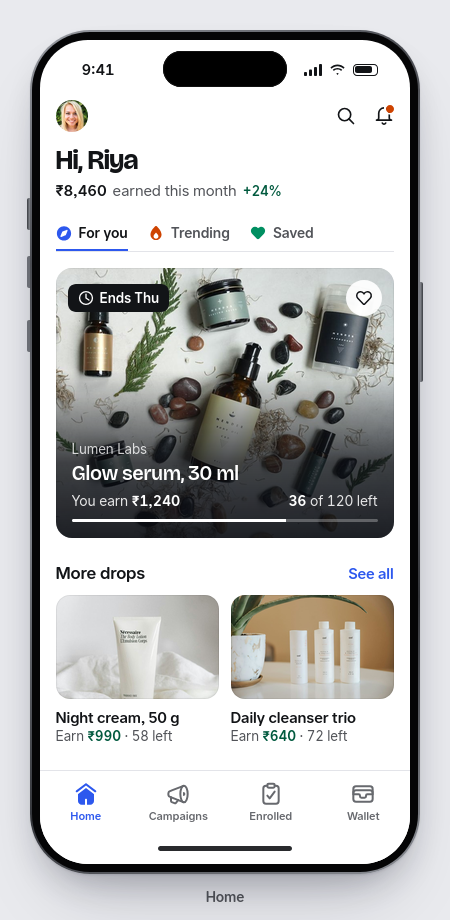
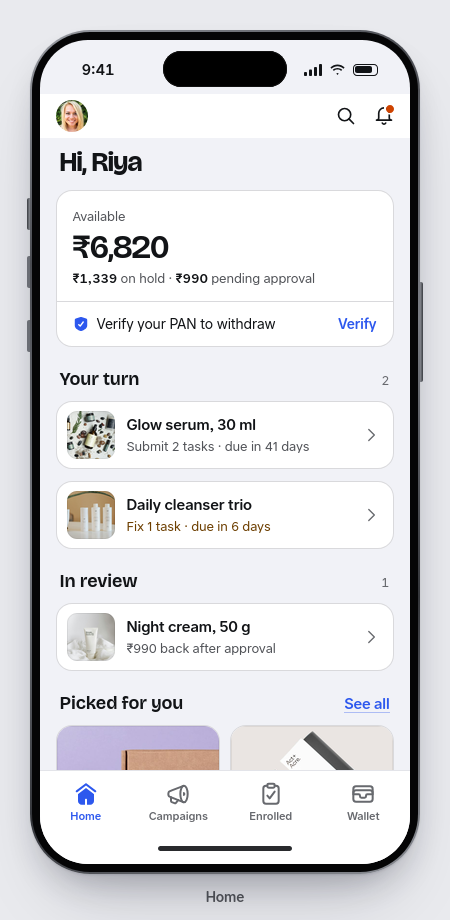
kit: creator Home by the spec (one wallet card with the PAN step, Your turn, In review, Picked for you); scaffold for 7 new screens

diff --git a/brand-identity/wordmark/BRAND/ui/screens/03-home.html b/brand-identity/wordmark/BRAND/ui/screens/03-home.html
@@ -5964,7 +5964,39 @@ html body .n-sw .n-swa .a { width: 76px !important; }
 
 /* radio cards: one signal (the filled radio); no blue fill */
 html body .row.sel, html body .sec .row.sel, html body .phone .row.sel { background: var(--hd-surface) !important; box-shadow: 0 0 0 1px var(--hd-edge-strong, rgba(16,20,38,.22)) !important; }
-</style></head><body><div style="padding:30px;display:inline-block"><figure class="pf"><div class="phone"><div class="scr" data-theme="light"><div class="sbar" style=""><span class="num">9:41</span><span class="r"><svg width="18" height="12" viewBox="0 0 18 12" fill="currentColor" aria-hidden="true"><rect x="0" y="8" width="3" height="4" rx=".8"/><rect x="5" y="5.5" width="3" height="6.5" rx=".8"/><rect x="10" y="3" width="3" height="9" rx=".8"/><rect x="15" y="0" width="3" height="12" rx=".8"/></svg><svg width="17" height="12" viewBox="0 0 17 12" fill="currentColor" aria-hidden="true"><path d="M8.5 2.3c2.3 0 4.4.9 6 2.4l1.1-1.2A10.2 10.2 0 0 0 8.5.6 10.2 10.2 0 0 0 1.4 3.5l1.1 1.2c1.6-1.5 3.7-2.4 6-2.4Z"/><path d="M8.5 5.6c1.4 0 2.6.5 3.6 1.4l1.1-1.2A7 7 0 0 0 8.5 3.9 7 7 0 0 0 3.8 5.8l1.1 1.2c1-.9 2.2-1.4 3.6-1.4Z"/><path d="M8.5 8.9c.5 0 .9.2 1.2.5L8.5 11 7.3 9.4c.3-.3.7-.5 1.2-.5Z"/></svg><span class="bat"></span></span></div><div class="xm1-bar xm1-s"><img class="av" src="assets/stock/people/women-68.jpg" alt="Riya Sharma"><svg class="ic" width="22" height="22" viewBox="0 0 18 18" stroke-width="1.5" aria-hidden="true"><path d="M15.75 15.75L11.6386 11.6386" stroke="currentColor" stroke-linecap="round" stroke-linejoin="round" fill="none"/><path d="M7.75 13.25C10.7875 13.25 13.25 10.7875 13.25 7.75C13.25 4.7125 10.7875 2.25 7.75 2.25C4.7125 2.25 2.25 4.7125 2.25 7.75C2.25 10.7875 4.7125 13.25 7.75 13.25Z" stroke="currentColor" stroke-linecap="round" stroke-linejoin="round" fill="none"/></svg><span class="bell"><svg class="ic" width="22" height="22" viewBox="0 0 18 18" stroke-width="1.5" aria-hidden="true"><path d="M15.75 12.75C14.645 12.75 13.75 11.855 13.75 10.75V6.5C13.75 3.877 11.623 1.75 9 1.75C6.377 1.75 4.25 3.877 4.25 6.5V10.75C4.25 11.855 3.355 12.75 2.25 12.75H15.75Z" stroke="currentColor" stroke-linecap="round" stroke-linejoin="round" fill="none"/><path d="M10.5 15.3843C10.2005 15.9018 9.6409 16.25 9 16.25C8.3591 16.25 7.7995 15.9018 7.5 15.3843" stroke="currentColor" stroke-linecap="round" stroke-linejoin="round" fill="none"/></svg><i></i></span></div><div class="xm1-s xm1-home"><div class="xm1-head"><h1 class="xm1-h">Hi, Riya</h1><p class="xm1-earn"><b>₹8,460</b> earned this month <em>+24%</em></p></div><div class="tabs"><span class="on"><svg class="ic icf" width="16" height="16" viewBox="0 0 18 18" fill="currentColor" style="color:var(--hd-accent)" aria-hidden="true"><path fill-rule="evenodd" clip-rule="evenodd" d="M1 9.5C1 5.089 4.589 1.5 9 1.5C13.411 1.5 17 5.089 17 9.5C17 13.911 13.411 17.5 9 17.5C4.589 17.5 1 13.911 1 9.5ZM12.9828 6.49142C13.0936 6.21309 13.0282 5.89549 12.8163 5.68365C12.6045 5.47181 12.2869 5.40636 12.0086 5.51718L7.30955 7.38818C7.11809 7.46442 6.96643 7.61608 6.8902 7.80754L5.0192 12.5065C4.90837 12.7849 4.97382 13.1025 5.18566 13.3143C5.39751 13.5262 5.7151 13.5916 5.99344 13.4808L10.6924 11.6098C10.8839 11.5336 11.0356 11.3819 11.1118 11.1904L12.9828 6.49142Z" fill="currentColor"/></svg>For you</span><span><svg class="ic icf" width="16" height="16" viewBox="0 0 18 18" fill="currentColor" style="color:var(--hd-tone-vermilion)" aria-hidden="true"><path d="M9.493,1.185c-.282-.246-.703-.246-.985,0-.235,.205-5.757,5.067-5.757,9.548,0,3.456,2.804,6.267,6.25,6.267s6.25-2.812,6.25-6.267C15.25,6.252,9.728,1.389,9.493,1.185Zm-.493,14.315c-1.523,0-2.762-1.242-2.762-2.769,0-1.822,2.037-3.65,2.27-3.852,.282-.246,.703-.246,.985,0,.232,.202,2.27,2.03,2.27,3.852,0,1.526-1.239,2.769-2.762,2.769Z" fill="currentColor"/></svg>Trending</span><span><svg class="ic icf" width="16" height="16" viewBox="0 0 18 18" fill="currentColor" style="color:var(--hd-tone-mint)" aria-hidden="true"><path d="M16.842,5.365c-.217-.826-.693-1.595-1.342-2.164-1.11-.974-2.56-1.368-3.969-1.084-1.003,.203-1.883,.718-2.534,1.464-.039-.044-.079-.088-.12-.132-.84-.884-1.974-1.389-3.193-1.42-1.213-.026-2.378,.414-3.262,1.253-1.825,1.734-1.9,4.63-.163,6.459l5.479,5.694c.332,.346,.78,.537,1.26,.537h0c.48,0,.928-.19,1.261-.537l5.48-5.694s.003-.002,.004-.003c1.102-1.161,1.512-2.795,1.098-4.374Z" fill="currentColor"/></svg>Saved</span></div><div class="xm1-card"><img src="assets/stock/products/p6.jpg" alt=""><div class="top"><span class="chip"><svg class="ic" width="14" height="14" viewBox="0 0 18 18" stroke-width="1.5" aria-hidden="true"><circle cx="9" cy="9" r="7.25" fill="none" stroke="currentColor" stroke-linecap="round" stroke-linejoin="round"/><polyline points="9 4.75 9 9 12.25 11.25" fill="none" stroke="currentColor" stroke-linecap="round" stroke-linejoin="round"/></svg>Ends Thu</span><span class="x-disc" aria-label="Save"><svg class="ic" width="18" height="18" viewBox="0 0 18 18" stroke-width="1.5" aria-hidden="true"><path d="M15.2,9.222l-5.48,5.694c-.393,.409-1.048,.409-1.441,0L2.799,9.222c-1.452-1.528-1.389-3.944,.139-5.395,1.528-1.452,3.944-1.389,5.395,.139,.27,.284,.495,.609,.666,.962,1.074-2.212,4.002-2.92,6.007-1.162,.535,.469,.929,1.101,1.11,1.79,.363,1.383-.034,2.738-.916,3.666Z" fill="none" stroke="currentColor" stroke-linecap="round" stroke-linejoin="round"/></svg></span></div><div class="bt"><small>Lumen Labs</small><b>Glow serum, 30 ml</b><div class="mt"><span>You earn <em>₹1,240</em></span><span><em>36</em> of 120 left</span></div><i class="sl"><u style="width:70%"></u></i></div></div><div class="xm1-sech"><b>More drops</b><button class="btn link">See all</button></div><div class="xm1-two"><div class="xm1-mini"><img src="assets/stock/products/p1.jpg" alt=""><b>Night cream, 50 g</b><small>Earn <em>₹990</em> · 58 left</small></div><div class="xm1-mini"><img src="assets/stock/products/p7.jpg" alt=""><b>Daily cleanser trio</b><small>Earn <em>₹640</em> · 72 left</small></div></div></div><div class="tabbar"><div class="on"><svg class="ic icf" width="24" height="24" viewBox="0 0 18 18" fill="currentColor" aria-hidden="true"><path d="M15.999,7.75c-.156,0-.314-.049-.449-.15L9,2.688,2.45,7.6c-.331,.25-.803,.181-1.05-.15-.249-.332-.182-.802,.149-1.05L8.55,1.15c.268-.2,.633-.2,.9,0l7,5.25c.331,.249,.398,.719,.149,1.05-.146,.196-.372,.3-.601,.3Z" fill="currentColor"/><path d="M14.649,8.8l-5.649-4.238L3.351,8.8c-.111,.083-.229,.152-.351,.213v5.237c0,1.517,1.233,2.75,2.75,2.75h2.5v-3.75c0-.414,.336-.75,.75-.75s.75,.336,.75,.75v3.75h2.5c1.517,0,2.75-1.233,2.75-2.75v-5.237c-.122-.061-.24-.13-.351-.213Z" fill="currentColor"/></svg><span>Home</span></div><div class=""><svg class="ic" width="24" height="24" viewBox="0 0 18 18" stroke-width="1.5" aria-hidden="true"><path d="M3.75,11.457v2.704c0,.41,.25,.778,.631,.929l1.945,.773c.4,.159,.856,.044,1.134-.284l1.666-1.979" fill="none" stroke="currentColor" stroke-linecap="round" stroke-linejoin="round"/><ellipse cx="13.5" cy="9" rx="2.75" ry="6.25" fill="none" stroke="currentColor" stroke-linecap="round" stroke-linejoin="round"/><path d="M12.954,15.125L2.61,11.002c-.256-.099-.457-.296-.564-.549-.148-.35-.296-.847-.296-1.453,0-.271,.03-.817,.289-1.436,.108-.257,.313-.466,.573-.566,3.638-1.409,6.704-2.715,10.342-4.124" fill="none" stroke="currentColor" stroke-linecap="round" stroke-linejoin="round"/><path d="M14.5,9c0-.828-.672-1.5-1.5-1.5-.053,0-.103,.01-.155,.016-.058,.452-.095,.945-.095,1.484s.037,1.032,.095,1.484c.052,.005,.102,.016,.155,.016,.828,0,1.5-.672,1.5-1.5Z" fill="currentColor"/></svg><span>Campaigns</span></div><div class=""><svg class="ic" width="24" height="24" viewBox="0 0 18 18" stroke-width="1.5" aria-hidden="true"><path d="M6.25,2.75h-1c-1.105,0-2,.895-2,2V14.25c0,1.105,.895,2,2,2h7.5c1.105,0,2-.895,2-2V4.75c0-1.105-.895-2-2-2h-1" fill="none" stroke="currentColor" stroke-linecap="round" stroke-linejoin="round"/><rect x="6.25" y="1.25" width="5.5" height="3" rx="1" ry="1" fill="none" stroke="currentColor" stroke-linecap="round" stroke-linejoin="round"/><polyline points="6.25 10.25 8 12.25 11.75 7.25" fill="none" stroke="currentColor" stroke-linecap="round" stroke-linejoin="round"/></svg><span>Enrolled</span></div><div class=""><svg class="ic" width="24" height="24" viewBox="0 0 18 18" stroke-width="1.5" aria-hidden="true"><path d="M1.75,8.25c0-1.105,.895-2,2-2H14.25c1.105,0,2,.895,2,2" fill="none" stroke="currentColor" stroke-linecap="round" stroke-linejoin="round"/><path d="M16.25,9.25h-4c-.552,0-1,.448-1,1v.5c0,.552-.448,1-1,1h-2.5c-.552,0-1-.448-1-1v-.5c0-.552-.448-1-1-1H1.75" fill="none" stroke="currentColor" stroke-linecap="round" stroke-linejoin="round"/><rect x="1.75" y="3.25" width="14.5" height="11.5" rx="2" ry="2" fill="none" stroke="currentColor" stroke-linecap="round" stroke-linejoin="round"/></svg><span>Wallet</span></div></div><div class="home-ind"><i></i></div></div></div><figcaption>Home</figcaption></figure></div><script>// Squircles + tactile surfaces for the static kit (Zen/Firefox has no `corner-shape`).
+
+.phone .hm { flex: 1; min-height: 0; overflow: hidden; display: flex; flex-direction: column; gap: 12px; padding: 4px 16px 16px; background: var(--hd-canvas); }
+.phone .scr:has(.hm) { background: var(--hd-canvas); }
+.phone .hm-h { font-family: var(--font-brand); font-size: 28px; line-height: 32px; font-weight: 700; letter-spacing: -0.025em; font-variation-settings: 'opsz' 96; margin: 4px 4px 0; }
+.phone .hm-wal, .phone .hm-row, .phone .hm-pick { background: var(--hd-surface); border: 1px solid var(--hd-edge); border-radius: 16px; }
+.phone .hm-wal { padding: 16px 16px 0; display: flex; flex-direction: column; }
+.phone .hm-wal small { font-size: 13px; line-height: 18px; color: var(--hd-fg-muted); }
+.phone .hm-wal > b { font-family: var(--font-brand); font-size: 34px; line-height: 40px; font-weight: 700; letter-spacing: -0.025em; font-variation-settings: 'opsz' 96; color: var(--hd-fg); margin-top: 2px; }
+.phone .hm-wal p { margin: 2px 0 14px; font-size: 13px; line-height: 18px; color: var(--hd-fg-muted); }
+.phone .hm-wal p .num { color: var(--hd-fg); font-weight: 600; }
+.phone .hm-wal .ft { display: flex; align-items: center; gap: 8px; margin: 0 -16px; padding: 12px 16px; border-top: 1px solid var(--hd-edge); color: inherit; text-decoration: none; font-size: 14px; line-height: 20px; }
+.phone .hm-wal .ft span { flex: 1; color: var(--hd-fg); }
+.phone .hm-wal .ft em { font-style: normal; font-weight: 600; color: var(--hd-link); }
+.phone .hm-sh { display: flex; align-items: baseline; justify-content: space-between; margin: 8px 4px -2px; }
+.phone .hm-sh h2 { font-family: var(--font-brand); font-size: 18px; line-height: 24px; font-weight: 650; margin: 0; }
+.phone .hm-sh > span { font-size: 13px; color: var(--hd-fg-subtle); }
+.phone .hm-row { display: flex; align-items: center; gap: 12px; min-height: 68px; padding: 10px 14px 10px 10px; }
+.phone .hm-row img { width: 48px; height: 48px; border-radius: 10px; object-fit: cover; flex: none; }
+.phone .hm-row .tx { display: flex; flex-direction: column; gap: 2px; min-width: 0; flex: 1; }
+.phone .hm-row b { font-size: 15px; line-height: 20px; font-weight: 600; color: var(--hd-fg); }
+.phone .hm-row small { font-size: 13px; line-height: 18px; color: var(--hd-fg-muted); white-space: nowrap; overflow: hidden; text-overflow: ellipsis; }
+.phone .hm-row small.warn { color: var(--hd-warning-strong); }
+.phone .hm-row > .ic { color: var(--hd-fg-subtle); flex: none; }
+.phone .hm-picks { display: grid; grid-template-columns: 1fr 1fr; gap: 10px; }
+.phone .hm-pick { overflow: hidden; display: flex; flex-direction: column; }
+.phone .hm-pick img { width: 100%; aspect-ratio: 4 / 3; object-fit: cover; display: block; }
+.phone .hm-pick .bd { padding: 10px 12px 12px; display: flex; flex-direction: column; gap: 2px; }
+.phone .hm-pick .sr { display: flex; align-items: center; gap: 5px; font-size: 12.5px; color: var(--hd-fg-muted); }
+.phone .hm-pick b { font-size: 15px; line-height: 20px; font-weight: 600; }
+.phone .hm-pick p { margin: 0; display: flex; gap: 6px; align-items: baseline; font-size: 14px; font-weight: 600; color: var(--hd-fg); }
+.phone .hm-pick p em { font-style: normal; font-size: 12.5px; font-weight: 600; color: var(--hd-success-strong); }
+.phone .hm-pick small { font-size: 12.5px; color: var(--hd-fg-subtle); }
+</style></head><body><div style="padding:30px;display:inline-block"><figure class="pf"><div class="phone"><div class="scr" data-theme="light"><div class="sbar" style=""><span class="num">9:41</span><span class="r"><svg width="18" height="12" viewBox="0 0 18 12" fill="currentColor" aria-hidden="true"><rect x="0" y="8" width="3" height="4" rx=".8"/><rect x="5" y="5.5" width="3" height="6.5" rx=".8"/><rect x="10" y="3" width="3" height="9" rx=".8"/><rect x="15" y="0" width="3" height="12" rx=".8"/></svg><svg width="17" height="12" viewBox="0 0 17 12" fill="currentColor" aria-hidden="true"><path d="M8.5 2.3c2.3 0 4.4.9 6 2.4l1.1-1.2A10.2 10.2 0 0 0 8.5.6 10.2 10.2 0 0 0 1.4 3.5l1.1 1.2c1.6-1.5 3.7-2.4 6-2.4Z"/><path d="M8.5 5.6c1.4 0 2.6.5 3.6 1.4l1.1-1.2A7 7 0 0 0 8.5 3.9 7 7 0 0 0 3.8 5.8l1.1 1.2c1-.9 2.2-1.4 3.6-1.4Z"/><path d="M8.5 8.9c.5 0 .9.2 1.2.5L8.5 11 7.3 9.4c.3-.3.7-.5 1.2-.5Z"/></svg><span class="bat"></span></span></div><div class="xm1-bar xm1-s"><img class="av" src="assets/stock/people/women-68.jpg" alt="Riya Sharma"><svg class="ic" width="22" height="22" viewBox="0 0 18 18" stroke-width="1.5" aria-hidden="true"><path d="M15.75 15.75L11.6386 11.6386" stroke="currentColor" stroke-linecap="round" stroke-linejoin="round" fill="none"/><path d="M7.75 13.25C10.7875 13.25 13.25 10.7875 13.25 7.75C13.25 4.7125 10.7875 2.25 7.75 2.25C4.7125 2.25 2.25 4.7125 2.25 7.75C2.25 10.7875 4.7125 13.25 7.75 13.25Z" stroke="currentColor" stroke-linecap="round" stroke-linejoin="round" fill="none"/></svg><span class="bell"><svg class="ic" width="22" height="22" viewBox="0 0 18 18" stroke-width="1.5" aria-hidden="true"><path d="M15.75 12.75C14.645 12.75 13.75 11.855 13.75 10.75V6.5C13.75 3.877 11.623 1.75 9 1.75C6.377 1.75 4.25 3.877 4.25 6.5V10.75C4.25 11.855 3.355 12.75 2.25 12.75H15.75Z" stroke="currentColor" stroke-linecap="round" stroke-linejoin="round" fill="none"/><path d="M10.5 15.3843C10.2005 15.9018 9.6409 16.25 9 16.25C8.3591 16.25 7.7995 15.9018 7.5 15.3843" stroke="currentColor" stroke-linecap="round" stroke-linejoin="round" fill="none"/></svg><i></i></span></div><div class="xm1-s hm"><h1 class="hm-h">Hi, Riya</h1><div class="hm-wal"><small>Available</small><b class="num">₹6,820</b><p><span class="num">₹1,339</span> on hold · <span class="num">₹990</span> pending approval</p><a class="ft"><svg class="ic icf" width="16" height="16" viewBox="0 0 18 18" fill="currentColor" style="color:var(--hd-accent)" aria-hidden="true"><path d="M14.783,2.813l-5.25-1.68c-.349-.112-.718-.111-1.066,0L3.216,2.813c-.728,.233-1.216,.903-1.216,1.667v6.52c0,3.508,4.946,5.379,6.46,5.869,.177,.057,.358,.086,.54,.086s.362-.028,.538-.085c1.516-.49,6.462-2.361,6.462-5.869V4.48c0-.764-.489-1.434-1.217-1.667Zm-2.681,4.389l-3.397,4.5c-.128,.169-.322,.276-.534,.295-.021,.002-.043,.003-.065,.003-.189,0-.372-.071-.511-.201l-1.609-1.5c-.303-.283-.32-.757-.038-1.06,.284-.303,.758-.319,1.06-.038l1.001,.933,2.896-3.836c.25-.33,.72-.396,1.051-.146,.331,.25,.396,.72,.146,1.051Z" fill="currentColor"/></svg><span>Verify your PAN to withdraw</span><em>Verify</em></a></div><div class="hm-sh"><h2>Your turn</h2><span class="num">2</span></div><div class="hm-row"><img src="assets/stock/products/p6.jpg" alt=""><div class="tx"><b>Glow serum, 30 ml</b><small class="">Submit 2 tasks · due in 41 days</small></div><svg class="ic" width="16" height="16" viewBox="0 0 18 18" stroke-width="1.5" aria-hidden="true"><polyline points="6.5 2.75 12.75 9 6.5 15.25" fill="none" stroke="currentColor" stroke-linecap="round" stroke-linejoin="round"/></svg></div><div class="hm-row"><img src="assets/stock/products/p7.jpg" alt=""><div class="tx"><b>Daily cleanser trio</b><small class="warn">Fix 1 task · due in 6 days</small></div><svg class="ic" width="16" height="16" viewBox="0 0 18 18" stroke-width="1.5" aria-hidden="true"><polyline points="6.5 2.75 12.75 9 6.5 15.25" fill="none" stroke="currentColor" stroke-linecap="round" stroke-linejoin="round"/></svg></div><div class="hm-sh"><h2>In review</h2><span class="num">1</span></div><div class="hm-row"><img src="assets/stock/products/p1.jpg" alt=""><div class="tx"><b>Night cream, 50 g</b><small class="">₹990 back after approval</small></div><svg class="ic" width="16" height="16" viewBox="0 0 18 18" stroke-width="1.5" aria-hidden="true"><polyline points="6.5 2.75 12.75 9 6.5 15.25" fill="none" stroke="currentColor" stroke-linecap="round" stroke-linejoin="round"/></svg></div><div class="hm-sh"><h2>Picked for you</h2><button class="btn link">See all</button></div><div class="hm-picks"><div class="hm-pick"><img src="assets/stock/products/p5.jpg" alt=""><div class="bd"><span class="sr"><img class="plat" src="assets/stock/platforms/nykaa.png" width="14" height="14" alt="nykaa">Nykaa</span><b>Clear skin set</b><p><span>Free product</span><em>+₹500 bonus</em></p><small>Worth ₹2,400</small></div></div><div class="hm-pick"><img src="assets/stock/products/p2.jpg" alt=""><div class="bd"><span class="sr"><img class="plat" src="assets/stock/platforms/nykaa.png" width="14" height="14" alt="nykaa">Nykaa</span><b>Clay mask, 100 g</b><p><span class=num>45% back</span></p><small>3 spots left</small></div></div></div></div><div class="tabbar"><div class="on"><svg class="ic icf" width="24" height="24" viewBox="0 0 18 18" fill="currentColor" aria-hidden="true"><path d="M15.999,7.75c-.156,0-.314-.049-.449-.15L9,2.688,2.45,7.6c-.331,.25-.803,.181-1.05-.15-.249-.332-.182-.802,.149-1.05L8.55,1.15c.268-.2,.633-.2,.9,0l7,5.25c.331,.249,.398,.719,.149,1.05-.146,.196-.372,.3-.601,.3Z" fill="currentColor"/><path d="M14.649,8.8l-5.649-4.238L3.351,8.8c-.111,.083-.229,.152-.351,.213v5.237c0,1.517,1.233,2.75,2.75,2.75h2.5v-3.75c0-.414,.336-.75,.75-.75s.75,.336,.75,.75v3.75h2.5c1.517,0,2.75-1.233,2.75-2.75v-5.237c-.122-.061-.24-.13-.351-.213Z" fill="currentColor"/></svg><span>Home</span></div><div class=""><svg class="ic" width="24" height="24" viewBox="0 0 18 18" stroke-width="1.5" aria-hidden="true"><path d="M3.75,11.457v2.704c0,.41,.25,.778,.631,.929l1.945,.773c.4,.159,.856,.044,1.134-.284l1.666-1.979" fill="none" stroke="currentColor" stroke-linecap="round" stroke-linejoin="round"/><ellipse cx="13.5" cy="9" rx="2.75" ry="6.25" fill="none" stroke="currentColor" stroke-linecap="round" stroke-linejoin="round"/><path d="M12.954,15.125L2.61,11.002c-.256-.099-.457-.296-.564-.549-.148-.35-.296-.847-.296-1.453,0-.271,.03-.817,.289-1.436,.108-.257,.313-.466,.573-.566,3.638-1.409,6.704-2.715,10.342-4.124" fill="none" stroke="currentColor" stroke-linecap="round" stroke-linejoin="round"/><path d="M14.5,9c0-.828-.672-1.5-1.5-1.5-.053,0-.103,.01-.155,.016-.058,.452-.095,.945-.095,1.484s.037,1.032,.095,1.484c.052,.005,.102,.016,.155,.016,.828,0,1.5-.672,1.5-1.5Z" fill="currentColor"/></svg><span>Campaigns</span></div><div class=""><svg class="ic" width="24" height="24" viewBox="0 0 18 18" stroke-width="1.5" aria-hidden="true"><path d="M6.25,2.75h-1c-1.105,0-2,.895-2,2V14.25c0,1.105,.895,2,2,2h7.5c1.105,0,2-.895,2-2V4.75c0-1.105-.895-2-2-2h-1" fill="none" stroke="currentColor" stroke-linecap="round" stroke-linejoin="round"/><rect x="6.25" y="1.25" width="5.5" height="3" rx="1" ry="1" fill="none" stroke="currentColor" stroke-linecap="round" stroke-linejoin="round"/><polyline points="6.25 10.25 8 12.25 11.75 7.25" fill="none" stroke="currentColor" stroke-linecap="round" stroke-linejoin="round"/></svg><span>Enrolled</span></div><div class=""><svg class="ic" width="24" height="24" viewBox="0 0 18 18" stroke-width="1.5" aria-hidden="true"><path d="M1.75,8.25c0-1.105,.895-2,2-2H14.25c1.105,0,2,.895,2,2" fill="none" stroke="currentColor" stroke-linecap="round" stroke-linejoin="round"/><path d="M16.25,9.25h-4c-.552,0-1,.448-1,1v.5c0,.552-.448,1-1,1h-2.5c-.552,0-1-.448-1-1v-.5c0-.552-.448-1-1-1H1.75" fill="none" stroke="currentColor" stroke-linecap="round" stroke-linejoin="round"/><rect x="1.75" y="3.25" width="14.5" height="11.5" rx="2" ry="2" fill="none" stroke="currentColor" stroke-linecap="round" stroke-linejoin="round"/></svg><span>Wallet</span></div></div><div class="home-ind"><i></i></div></div></div><figcaption>Home</figcaption></figure></div><script>// Squircles + tactile surfaces for the static kit (Zen/Firefox has no `corner-shape`).
 // Each target gets an absolutely positioned SVG behind its content: a continuous-curvature
 // (figma-squircle, smoothing 0.6) path carrying the fill, the hairline/border, the tactile lip
 // and the layered shadow. Photos get the same path as a clip-path. No SVG <mask> anywhere.

diff --git a/brand-identity/source/kit_build.py b/brand-identity/source/kit_build.py
@@ -218,15 +218,29 @@ def s_otp():
                  f'<div class="xm1-pad">' + "".join(f'<span><b>{ic("back", 22) if a == "⌫" else a}</b><small>{b}</small></span>' for a, b in keys) + '</div>', label="Verify phone")
 
 def s_home():
-    return phone(f'<div class="xm1-bar xm1-s"><img class="av" src="{PEOPLE["women-68"]}" alt="Riya Sharma">{ic("search")}<span class="bell">{ic("bell")}<i></i></span></div>'
-                 f'<div class="xm1-s xm1-home"><div class="xm1-head"><h1 class="xm1-h">Hi, Riya</h1><p class="xm1-earn"><b>₹8,460</b> earned this month <em>+24%</em></p></div>'
-                 f'<div class="tabs"><span class="on">{ics("foryou", 16, "var(--hd-accent)")}For you</span><span>{ics("trending", 16, "var(--hd-tone-vermilion)")}Trending</span><span>{ics("heart", 16, "var(--hd-tone-mint)")}Saved</span></div>'
-                 f'<div class="xm1-card"><img src="{PH["serum_hero"]}" alt=""><div class="top"><span class="chip">{ic("clock", 14)}Ends Thu</span><span class="x-disc" aria-label="Save">{ic("heart", 18)}</span></div>'
-                 f'<div class="bt"><small>Lumen Labs</small><b>Glow serum, 30 ml</b><div class="mt"><span>You earn <em>₹1,240</em></span><span><em>36</em> of 120 left</span></div><i class="sl"><u style="width:70%"></u></i></div></div>'
-                 f'<div class="xm1-sech"><b>More drops</b><button class="btn link">See all</button></div>'
-                 f'<div class="xm1-two"><div class="xm1-mini"><img src="{PH["cream"]}" alt=""><b>Night cream, 50 g</b><small>Earn <em>₹990</em> · 58 left</small></div>'
-                 f'<div class="xm1-mini"><img src="{PH["bottles"]}" alt=""><b>Daily cleanser trio</b><small>Earn <em>₹640</em> · 72 left</small></div></div></div>'
-                 f'{tabbar("Home")}', label="Home")
+    """Home, by the spec: greeting, the last setup step, money at a glance, what needs Riya, what waits on brands, picks."""
+    def row(photo, title, meta, cls=""):
+        return (f'<div class="hm-row"><img src="{PH[photo]}" alt=""><div class="tx"><b>{title}</b>'
+                f'<small class="{cls}">{meta}</small></div>{ic("chev", 16)}</div>')
+    def pick(photo, store, title, lead, bonus, foot):
+        return (f'<div class="hm-pick"><img src="{PH[photo]}" alt=""><div class="bd"><span class="sr">{plat(store, 14)}{store.title()}</span>'
+                f'<b>{title}</b><p>{lead}{f"<em>+{bonus} bonus</em>" if bonus else ""}</p><small>{foot}</small></div></div>')
+    return phone(
+        f'<div class="xm1-bar xm1-s"><img class="av" src="{PEOPLE["women-68"]}" alt="Riya Sharma">{ic("search")}<span class="bell">{ic("bell")}<i></i></span></div>'
+        f'<div class="xm1-s hm">'
+        f'<h1 class="hm-h">Hi, Riya</h1>'
+        f'<div class="hm-wal"><small>Available</small><b class="num">₹6,820</b>'
+        f'<p><span class="num">₹1,339</span> on hold · <span class="num">₹990</span> pending approval</p>'
+        f'<a class="ft">{ics("privacy", 16, "var(--hd-accent)")}<span>Verify your PAN to withdraw</span><em>Verify</em></a></div>'
+        f'<div class="hm-sh"><h2>Your turn</h2><span class="num">2</span></div>'
+        + row("serum", "Glow serum, 30 ml", "Submit 2 tasks · due in 41 days")
+        + row("bottles", "Daily cleanser trio", "Fix 1 task · due in 6 days", "warn")
+        + f'<div class="hm-sh"><h2>In review</h2><span class="num">1</span></div>'
+        + row("cream", "Night cream, 50 g", "₹990 back after approval")
+        + f'<div class="hm-sh"><h2>Picked for you</h2><button class="btn link">See all</button></div>'
+        f'<div class="hm-picks">{pick("set", "nykaa", "Clear skin set", "<span>Free product</span>", "₹500", "Worth ₹2,400")}'
+        f'{pick("mask", "nykaa", "Clay mask, 100 g", "<span class=num>45% back</span>", "", "3 spots left")}</div>'
+        f'</div>{tabbar("Home")}', label="Home")
 
 def s_detail():
     step = lambda i, t, d: f'<div class="c5-st"><span class="x-tile c5-ti">{ics(i, 20)}</span><b>{t}</b><small>{d}</small></div>'
@@ -339,7 +353,10 @@ def s_empty():
                  f'<div class="xm3-sec"><b>Popular right now</b><div class="xm3-chips">' + "".join(f'<span>{ic(i, 16)}{p}</span>' for i, p in pop) + '</div></div>'
                  f'<div class="xm3-sec"><div class="xm3-sh"><b>Live now</b><button class="btn link">See all</button></div><div class="xm3-ll">{rows}</div></div></div>{tabbar("Campaigns")}', label="Empty search")
 
-MOBILE = [s_welcome, s_otp, s_home, s_detail, s_apply, s_join_receipt, s_track, s_review, s_wallet, s_success, s_notifs, s_profile, s_empty]
+from scr_n1 import s_onboarding, s_browse, s_enrollments
+from scr_n2 import s_enrollment_detail, s_withdraw, s_settings, s_barter
+MOBILE = [s_welcome, s_otp, s_home, s_detail, s_apply, s_join_receipt, s_track, s_review, s_wallet, s_success, s_notifs, s_profile, s_empty,
+          s_onboarding, s_browse, s_enrollments, s_enrollment_detail, s_withdraw, s_settings, s_barter]
 
 # ================================================================== DESKTOP
 def sidebar(active):
@@ -418,8 +435,8 @@ def _snap(css):
     css = _re.sub(r"font-size:\s*(\d+\.\d)px", lambda m: "font-size:" + _FS.get(m.group(1), m.group(1)) + "px", css)
     return _re.sub(r"(font:[^;}\"]*?)(\d+\.\d)px", lambda m: m.group(1) + _FS.get(m.group(2), m.group(2)) + "px", css)
 def _late():
-    import importlib, xlead, xa, xb, xc, xd, xe, xf, xg, xm1, xm2, xm3, xs, xy, xq1, xq2, xr1, xr2, xr3, xr4, xt1, xt2, xt3, xz
-    return xlead.XLEAD + xa.XA + xb.XB + xc.XC + xd.XD + xe.XE + xf.XF + xg.XG + xm1.XM1 + xm2.XM2 + xm3.XM3 + xs.XS + xy.XY + xq1.XQ1 + xq2.XQ2 + xr1.XR1 + xr2.XR2 + xr3.XR3 + xr4.XR4 + xt1.XT1 + xt2.XT2 + xt3.XT3 + xz.XZ
+    import importlib, xlead, xa, xb, xc, xd, xe, xf, xg, xm1, xm2, xm3, xs, xy, xq1, xq2, xr1, xr2, xr3, xr4, xt1, xt2, xt3, xz, xh, xh2, xn1, xn2
+    return xlead.XLEAD + xa.XA + xb.XB + xc.XC + xd.XD + xe.XE + xf.XF + xg.XG + xm1.XM1 + xm2.XM2 + xm3.XM3 + xs.XS + xy.XY + xq1.XQ1 + xq2.XQ2 + xr1.XR1 + xr2.XR2 + xr3.XR3 + xr4.XR4 + xt1.XT1 + xt2.XT2 + xt3.XT3 + xz.XZ + xh.XH + xh2.XH2 + xn1.XN1 + xn2.XN2
 
 import re as _re
 _STORES = {"Nykaa": "nykaa", "Amazon": "amazon", "Myntra": "myntra", "Flipkart": "flipkart", "Meesho": "meesho"}

diff --git a/brand-identity/source/xh.py b/brand-identity/source/xh.py
@@ -1,0 +1,34 @@
+# Home (creator), by the business-logic spec. Calm language: separate row cards, one signal per state, 15/600 titles.
+XH = """
+.phone .hm { flex: 1; min-height: 0; overflow: hidden; display: flex; flex-direction: column; gap: 12px; padding: 4px 16px 16px; background: var(--hd-canvas); }
+.phone .scr:has(.hm) { background: var(--hd-canvas); }
+.phone .hm-h { font-family: var(--font-brand); font-size: 28px; line-height: 32px; font-weight: 700; letter-spacing: -0.025em; font-variation-settings: 'opsz' 96; margin: 4px 4px 0; }
+.phone .hm-wal, .phone .hm-row, .phone .hm-pick { background: var(--hd-surface); border: 1px solid var(--hd-edge); border-radius: 16px; }
+.phone .hm-wal { padding: 16px 16px 0; display: flex; flex-direction: column; }
+.phone .hm-wal small { font-size: 13px; line-height: 18px; color: var(--hd-fg-muted); }
+.phone .hm-wal > b { font-family: var(--font-brand); font-size: 34px; line-height: 40px; font-weight: 700; letter-spacing: -0.025em; font-variation-settings: 'opsz' 96; color: var(--hd-fg); margin-top: 2px; }
+.phone .hm-wal p { margin: 2px 0 14px; font-size: 13px; line-height: 18px; color: var(--hd-fg-muted); }
+.phone .hm-wal p .num { color: var(--hd-fg); font-weight: 600; }
+.phone .hm-wal .ft { display: flex; align-items: center; gap: 8px; margin: 0 -16px; padding: 12px 16px; border-top: 1px solid var(--hd-edge); color: inherit; text-decoration: none; font-size: 14px; line-height: 20px; }
+.phone .hm-wal .ft span { flex: 1; color: var(--hd-fg); }
+.phone .hm-wal .ft em { font-style: normal; font-weight: 600; color: var(--hd-link); }
+.phone .hm-sh { display: flex; align-items: baseline; justify-content: space-between; margin: 8px 4px -2px; }
+.phone .hm-sh h2 { font-family: var(--font-brand); font-size: 18px; line-height: 24px; font-weight: 650; margin: 0; }
+.phone .hm-sh > span { font-size: 13px; color: var(--hd-fg-subtle); }
+.phone .hm-row { display: flex; align-items: center; gap: 12px; min-height: 68px; padding: 10px 14px 10px 10px; }
+.phone .hm-row img { width: 48px; height: 48px; border-radius: 10px; object-fit: cover; flex: none; }
+.phone .hm-row .tx { display: flex; flex-direction: column; gap: 2px; min-width: 0; flex: 1; }
+.phone .hm-row b { font-size: 15px; line-height: 20px; font-weight: 600; color: var(--hd-fg); }
+.phone .hm-row small { font-size: 13px; line-height: 18px; color: var(--hd-fg-muted); white-space: nowrap; overflow: hidden; text-overflow: ellipsis; }
+.phone .hm-row small.warn { color: var(--hd-warning-strong); }
+.phone .hm-row > .ic { color: var(--hd-fg-subtle); flex: none; }
+.phone .hm-picks { display: grid; grid-template-columns: 1fr 1fr; gap: 10px; }
+.phone .hm-pick { overflow: hidden; display: flex; flex-direction: column; }
+.phone .hm-pick img { width: 100%; aspect-ratio: 4 / 3; object-fit: cover; display: block; }
+.phone .hm-pick .bd { padding: 10px 12px 12px; display: flex; flex-direction: column; gap: 2px; }
+.phone .hm-pick .sr { display: flex; align-items: center; gap: 5px; font-size: 12.5px; color: var(--hd-fg-muted); }
+.phone .hm-pick b { font-size: 15px; line-height: 20px; font-weight: 600; }
+.phone .hm-pick p { margin: 0; display: flex; gap: 6px; align-items: baseline; font-size: 14px; font-weight: 600; color: var(--hd-fg); }
+.phone .hm-pick p em { font-style: normal; font-size: 12.5px; font-weight: 600; color: var(--hd-success-strong); }
+.phone .hm-pick small { font-size: 12.5px; color: var(--hd-fg-subtle); }
+"""

diff --git a/brand-identity/source/scr_n2.py b/brand-identity/source/scr_n2.py
@@ -1,0 +1,14 @@
+"""New creator screens, part 2 (agent 3): Enrollment detail, Withdraw, Settings, Barter enrollment. Spec: CREATOR-SPEC.md."""
+from uikit2 import *
+
+def s_enrollment_detail():
+    return phone('<div class="xm1-s"><p style="padding:40px 20px">Enrollment detail — to build</p></div>', label="Enrollment detail")
+
+def s_withdraw():
+    return phone('<div class="xm1-s"><p style="padding:40px 20px">Withdraw — to build</p></div>', label="Withdraw")
+
+def s_settings():
+    return phone('<div class="xm1-s"><p style="padding:40px 20px">Settings — to build</p></div>', label="Settings")
+
+def s_barter():
+    return phone('<div class="xm1-s"><p style="padding:40px 20px">Barter enrollment — to build</p></div>', label="Barter enrollment")

diff --git a/brand-identity/source/scr_n1.py b/brand-identity/source/scr_n1.py
@@ -1,0 +1,11 @@
+"""New creator screens, part 1 (agent 2): Onboarding, Campaigns browse, Enrollments list. Spec: CREATOR-SPEC.md."""
+from uikit2 import *
+
+def s_onboarding():
+    return phone('<div class="xm1-s"><p style="padding:40px 20px">Onboarding — to build</p></div>', label="Onboarding")
+
+def s_browse():
+    return phone(f'<div class="xm1-s"><p style="padding:40px 20px">Campaigns — to build</p></div>{tabbar("Campaigns")}', label="Campaigns")
+
+def s_enrollments():
+    return phone(f'<div class="xm1-s"><p style="padding:40px 20px">Enrollments — to build</p></div>{tabbar("Enrolled")}', label="Enrollments")

diff --git a/brand-identity/source/xh2.py b/brand-identity/source/xh2.py
@@ -1,0 +1,3 @@
+# Screen layer (xh2). Prefix every class to avoid clashes.
+XH2 = """
+"""

diff --git a/brand-identity/source/xn1.py b/brand-identity/source/xn1.py
@@ -1,0 +1,3 @@
+# Screen layer (xn1). Prefix every class to avoid clashes.
+XN1 = """
+"""

diff --git a/brand-identity/source/xn2.py b/brand-identity/source/xn2.py
@@ -1,0 +1,3 @@
+# Screen layer (xn2). Prefix every class to avoid clashes.
+XN2 = """
+"""
